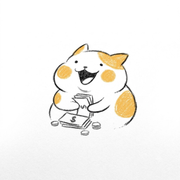
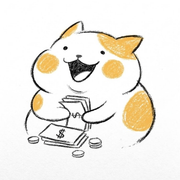
n

Changed region(s): [[0.1111, 0.1111, 0.8889, 0.8889], [0.3333, 0.25, 0.3889, 0.2778]]

diff --git a/frontend/src/app/manifest.ts b/frontend/src/app/manifest.ts
@@ -7,9 +7,9 @@ export default function manifest(): MetadataRoute.Manifest {
     start_url: '/business/subscriptions', scope: '/', display: 'standalone',
     background_color: '#fef9f4', theme_color: '#df7a08', lang: 'vi',
     icons: [
-      { src: '/icons/billy-cat-v2-192.png', sizes: '192x192', type: 'image/png', purpose: 'any' },
-      { src: '/icons/billy-cat-v2-512.png', sizes: '512x512', type: 'image/png', purpose: 'any' },
-      { src: '/icons/billy-cat-v2-maskable-512.png', sizes: '512x512', type: 'image/png', purpose: 'maskable' },
+      { src: '/icons/billy-cat-v3-192.png', sizes: '192x192', type: 'image/png', purpose: 'any' },
+      { src: '/icons/billy-cat-v3-512.png', sizes: '512x512', type: 'image/png', purpose: 'any' },
+      { src: '/icons/billy-cat-v3-maskable-512.png', sizes: '512x512', type: 'image/png', purpose: 'maskable' },
     ],
   };
 }

diff --git a/frontend/src/app/layout.tsx b/frontend/src/app/layout.tsx
@@ -32,11 +32,11 @@ export const metadata: Metadata = {
   appleWebApp: { capable: true, title: 'Billy', statusBarStyle: 'default' },
   icons: {
     icon: [
-      { url: '/icons/billy-cat-v2-32.png', sizes: '32x32', type: 'image/png' },
-      { url: '/icons/billy-cat-v2-192.png', sizes: '192x192', type: 'image/png' },
+      { url: '/icons/billy-cat-v3-32.png', sizes: '32x32', type: 'image/png' },
+      { url: '/icons/billy-cat-v3-192.png', sizes: '192x192', type: 'image/png' },
     ],
-    shortcut: '/icons/billy-cat-v2-32.png',
-    apple: [{ url: '/icons/billy-cat-v2-180.png', sizes: '180x180', type: 'image/png' }],
+    shortcut: '/icons/billy-cat-v3-32.png',
+    apple: [{ url: '/icons/billy-cat-v3-180.png', sizes: '180x180', type: 'image/png' }],
   },
 };
 

diff --git a/frontend/public/subscription-reminders-sw.js b/frontend/public/subscription-reminders-sw.js
@@ -8,7 +8,7 @@ self.addEventListener('push', event => {
     typeof payload.title === 'string' ? payload.title : 'Billy · Nhắc hủy gói', {
       body: typeof payload.body === 'string' ? payload.body : 'Mở Lịch gia hạn để kiểm tra gói cần xử lý.',
       tag: typeof payload.tag === 'string' ? payload.tag : 'billy-subscriptions',
-      icon: '/icons/billy-cat-v2-192.png', badge: '/icons/billy-cat-v2-192.png',
+      icon: '/icons/billy-cat-v3-192.png', badge: '/icons/billy-cat-v3-192.png',
     },
   ));
 });

diff --git a/frontend/branding/README.md b/frontend/branding/README.md
@@ -14,9 +14,10 @@ The script preserves the artwork and creates PNGs from 16 to 1024 pixels,
 an iOS 180px touch icon, a 512px maskable icon, a multi-size favicon,
 and the link preview image. The 1024px PNG is the master export for future
 app packaging. Existing notification icon URLs also use this artwork.
-The new artwork already includes white margins suitable for launcher masks;
-the generator preserves the supplied composition. Current public assets use
-the `billy-cat-v2-` prefix so clients fetch the updated artwork.
+The generator crops the excess white canvas to 688px square, making the mascot
+approximately 1.5 times larger. The source artwork remains unchanged. The
+maskable variant adds safe padding for circular launcher masks. Current public
+assets use the `billy-cat-v3-` prefix so clients fetch the enlarged artwork.
 
 The root layout explicitly declares the versioned 180px `apple-touch-icon`.
 `src/app/apple-icon.png` and `public/apple-touch-icon.png` provide conventional
